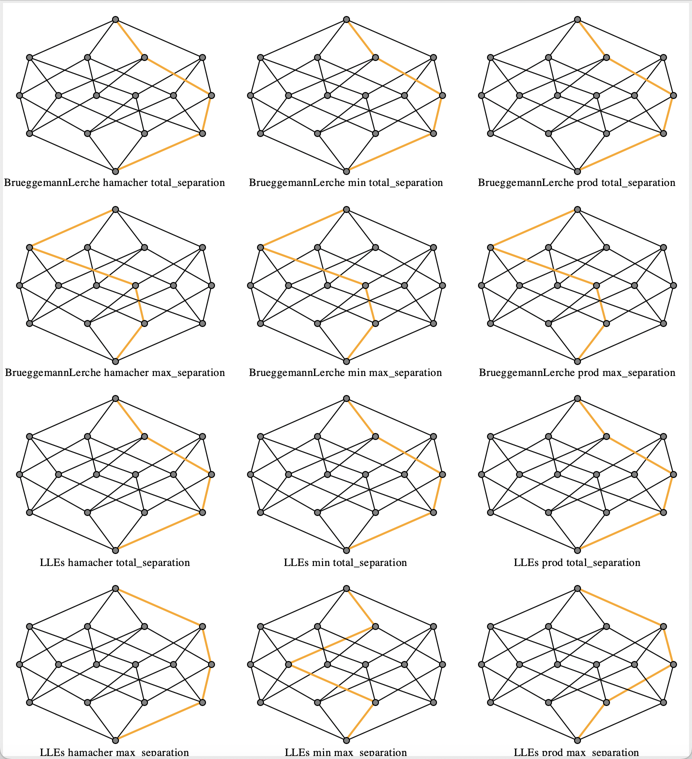
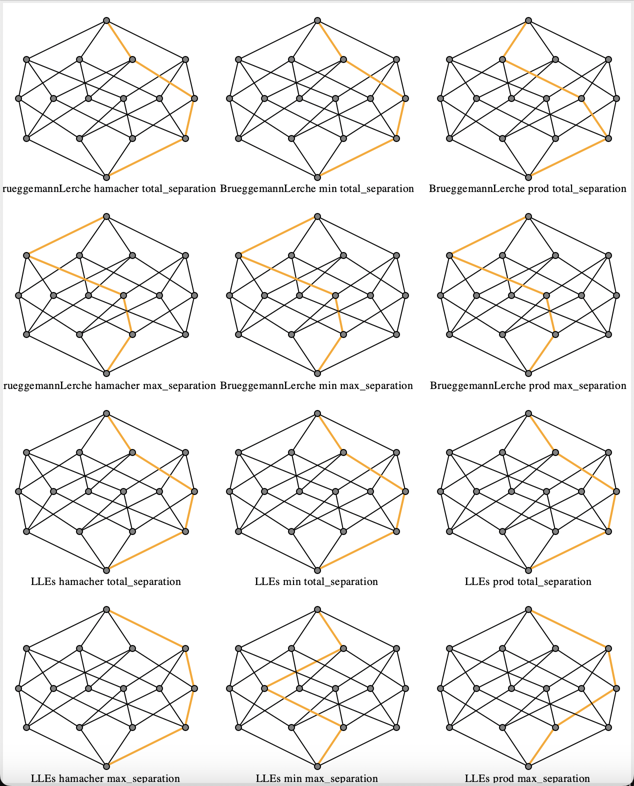
Aggiunta funzione per calcolare il dataset quoziente di una congruenza

diff --git a/example_hasse.py b/example_hasse.py
@@ -1,126 +1,57 @@
 import pyLattice.pyLattice as pl
-from random import randint
+from random import randint,seed
 from time import time
-c = [
-    [0,0,0,0],
-    [1,0,0,0], 
-    [1,0,0,0],
-    [0,0,1,0]
-]
-P = pl.PoSet.from_cover_matrix(c)
+import copy
+seed(6)
+cw = (3,3)
+df = pl.CWDataSet(cw,[randint(0,10) for i in range(pl.product(cw))])
+print(df.L)
+print(df.f)
 
-P = P * P
-L = P.dedekind_completetion()
-L = L + pl.Lattice([[1]]) + L
-L = pl.Lattice.from_cw(3,2,2)
-L.hasse()
-colors = ['yellow' if (i in L.index_join_irriducibili() and i in L.index_meet_irriducibili()) else "black" if i in L.index_join_irriducibili() else "white" if i in L.index_meet_irriducibili() else "grey" for i in range(len(L))]
-H = pl.Hasse(*L.hasse_coordinate(),nodes_color = colors, radius = 5)
-C = L.CongruenceLattice()
-colors_b = ['yellow' if (i in C.index_join_irriducibili() and i in C.index_meet_irriducibili()) else "black" if i in C.index_join_irriducibili() else "white" if i in C.index_meet_irriducibili() else "grey" for i in range(len(C))]
-
-F = pl.DinamicCongruences(H, pl.Hasse(*C.hasse_coordinate(),nodes_color = colors_b, radius = 5), congruence_lattice=C, shape = (1500,800), show_labels=True)
-# H.nodes_color = ['yellow' if i in L.index_upset(5) else 'red' if i in L.index_downset(5) else 'grey' for i in range(len(L))]
-L = pl.Lattice.from_cw(3,3)
-H = pl.Hasse(*L.hasse_coordinate(),nodes_color = colors, radius = 5)
-for j in range(min(len(L),5)):
-    H.nodes_color = ['blue' if  (i in L.index_downset(j) and i in L.index_join_irriducibili()) else 'red' if i == j else 'grey' for i in range(len(L))]
-    F = pl.Finestra(H)
+df.L.labels = df.f
+df.L.hasse(show_labels=True)
     
-D = pl.DataSet(L,[1 for i in L])
-print(D.gerarchic_cluster()[0])
-## è perfetto, ho tutte le potenzialità, dovrò solo trovare un'interfacia dinamica carina
-def get_color(vertex, con):
-    return ['red' if con[a] == con[b] else 'black' for a,b in vertex]
+partitions, sep = df.gerarchic_cluster()
 
-for i in range(len(hasses)):
-    c = Reticoli[i].calcola_congruenza(randint(0,len(Reticoli[i]) - 1), randint(0,len(Reticoli[i]) - 1))
-    hasses[i].show_congruence(c)
-    # hasses[i+1].nodes_color = ['black' if j in Reticoli[i+1].index_join_irriducibili() else 
-    #                            'white' if j in Reticoli[i+1].index_meet_irriducibili() else
-    #                            'grey'  for j in range(len(hasses[i+1].nodes))]
-
-if False:
-    pl.Finestra(*hasses, shape = (1200,800), grid = (3,3), show_labels=False)
-
-
-    A = pl.Lattice.from_cw(2,3,2)
-    pl.Finestra(pl.Hasse(*A.hasse_coordinate()),
-               pl.Hasse(*A.CongruenceLattice().hasse_coordinate()),
-               shape = (700,700), show_labels=True)
+print('\nClusters a')
+for c in partitions:
+    print(len(pl.DataSet.as_partition(c)))
+    for cluster in pl.DataSet.as_partition(c):
+        print('\t',[df.L[i] for i in cluster])
+    print()
+    
+# df.estetic_rappresentation(partitions)
 
 
 
-###### LETS GO
+"""
+Verifichiamo uno dei più grandi dubbi attuali, ovvero che se prendo a metà della cluster il 
+reticolo quoziente di una congruenza scelta e ricomincio da capo ottengo lo stesso risultato, questo non è affato scontato
+"""
+df_2 = df.get_dataset(clusters=partitions[1])
 
-from random import randint   
+partitions, sep = df_2.gerarchic_cluster()
 
-
-
-L = pl.Lattice.from_cw(4,2,2)
-freq = [randint(0,10) for i in range(len(L))]
-L.labels = [f'{f}' for l,f in zip(L,freq)]
-
-
-cover = [
-    [0, 0, 0, 0],
-    [1, 0, 1, 0],
-    [1, 0, 1, 0],
-    [0, 0, 0, 0]
-]
-L = pl.Lattice.from_cw(2,10) 
-freq = [1 for i in range(len(L))]
-L.labels = [str(f) for f in freq]
-D = pl.DataSet(L,freq)
-start = time()
-D.fuzzy_dom()
-D.fuzzy_sep()
-clusters, separations = D.gerarchic_cluster()
-print(f'Tempo gerarchico: {time()-start}')
-#pene
-C = L.CongruenceLattice()
-A = pl.DinamicCongruences(pl.Hasse(*L.hasse_coordinate()), pl.Hasse(*C.hasse_coordinate()),congruence_lattice=C,shape =(1200,800) )
+print('\nClusters b')
+for c in partitions:
+    print(len(pl.DataSet.as_partition(c)))
+    for cluster in pl.DataSet.as_partition(c):
+        print('\t',[df_2.L[i] for i in cluster])
+    print()
 
 
-# print('dom')
-# for a in D.L.domination_matrix:
-#     print('\t'.join([f"{round(i, 2):.2f}" for i in a])) # DIO FUNZIONA C'È da capire perchè D.sep[i][i] != 0
-# print()
-# print('fuz_dom')
-# for a in D.fuz_dom:
-#     print('\t'.join([f"{round(i, 2):.2f}" for i in a])) # DIO FUNZIONA C'È da capire perchè D.sep[i][i] != 0
-# print()
-# print('fuz_sep')
-# for a in D.sep:
-#     print('\t'.join([f"{round(i, 2):.2f}" for i in a])) # DIO FUNZIONA C'È da capire perchè D.sep[i][i] != 0
-# Quello che è certo è che se separation_{ij} = 1 +sum... allora separation_{ii} >= 1.
-# c'è qualcosa che non va sicuro. . . 
+df.estetic_rappresentation()
+df_2.estetic_rappresentation()
 
 
 
-start = time()
-ConL = D.L.CongruenceLattice()
-ConL.labels = [str(round(D.calcola_sep_cluster(con),2)) for con in ConL]
 
-indici = [ConL.obj.index(c) for c in clusters]
-vertexes = [(min(indici[i], indici[i+1]) ,max(indici[i], indici[i+1]))for i in range(len(clusters)-1)]
+for b in df.fuz_dom:
+    print(b)
 
-H1 = pl.Hasse(*D.L.hasse_coordinate(), radius = 3)
-H2 = pl.Hasse(*ConL.hasse_coordinate(), radius = 3)
-
-H2.vertex_color = ['orange' if a in vertexes else 'black' for a in H2.vertex]
-print(f'Tempo complessivo: {time()-start}')
-pl.Finestra(H1,H2, shape = (1400,800), show_labels = True, font_size = 15)
-
-nblocchi = [pl.numero_blocchi(con) for con in clusters]
-
-
-print(nblocchi,separations, sep = '\n\n')
-
-hasses = []
-for c in clusters:
-    hasses.append(pl.Hasse(*D.L.hasse_coordinate(), radius = 3))
-    hasses[-1].show_congruence(c)
-pl.Finestra(*hasses, show_labels=False,shape = (1400,800))
-#pl.Lattice.hasse(D.L,ConL)
-
+    
+print()
+print(*df_2.L.obj,sep = '\n')
+for b in df_2.sep:
+    print([round(_,2) for _ in b])
+    

diff --git a/pyLattice/pyLattice.py b/pyLattice/pyLattice.py
@@ -1648,6 +1648,7 @@ class Finestra():
         
         takescreenshot = ImageGrab.grab(bbox=(x, y,x+ width,y+height))
         takescreenshot.save(f"PythonStuff/pyLattice/img/{self.title}.png")
+
 # DataSet annd cluster class
 class DataSet():
     def __init__(self, Lat:Lattice, freq, fuzzy_domination_function = 'BrueggemannLerche', t_norm_function = 'prod', t_conorm_function = None):
@@ -1881,7 +1882,7 @@ class DataSet():
             
         return history_con,separations
         
-    def estetic_rappresentation(self,gerarchic_cluster = None, function_sep = "total_separation"):
+    def estetic_rappresentation(self,gerarchic_cluster = None, function_sep = "total_separation", labels_freq = True):
         if function_sep != "total_separation":
             raise ValueError("Non l'ho ancora implementato coglione")
         
@@ -1894,10 +1895,49 @@ class DataSet():
             Con_L.labels = [round(self.total_separation(DataSet.as_partition(con)),2) for con in Con_L]
 
         self.L.get_hasse_variables()
-        self.L.labels = [str(_f) for _f in self.f]
+        if labels_freq:
+            self.L.labels = [str(_f) for _f in self.f]
         self.L.dinamic_congruences(ConL = Con_L,init = False, shape = (1400,700), show_labels=True)
         
-        
+    def get_dataset(self,clusters,fuzzy_domination_function = "BrueggemannLerche", t_norm_function = "prod", t_conorm_function = None):
+        """
+        Questa funzione permette di ottenere un nuovo dataset come quoziente di una congruenza. 
+        Data una partizione ottengo il reticolo quoziente e le frequenze raggruppate
+        La logica algebrica per fare questo calcolo è semplicissima 
+        (si tratta di sommare delle sotto matrici nella matrice booleana con l'operatore "or" il risultato è la nuova matrice booleana)
+        Ma in pratica risulta complesso, devo studiare melgio la manipolazione delle matrici con numpy
+        Attualmente implementiamo una cosa molto poco efficiente, poi magari miglioreremo
+        """
+        partizione = DataSet.as_partition(clusters)
+        matrice_dominanza = [[0 if i!=j else 1 for i in range(len(partizione))] for j in range(len(partizione))]
+        for i,a in enumerate(partizione):
+            for j,b in enumerate(partizione):
+                if i < j:
+                    continue
+                next = False
+                for x in a:
+                    for y in b:
+                        if self.L.domination_matrix[x][y]:
+                            matrice_dominanza[i][j] = 1
+                            next = True
+                        elif self.L.domination_matrix[y][x]:
+                            matrice_dominanza[j][i] = 1
+                            next = True
+                    if next:
+                        continue
+                if next:
+                    continue
+                
+        freq_ = [0 for i in range(len(partizione))]
+        for i,clu in enumerate(partizione):
+            for e in clu:
+                freq_[i]+=self.f[e]
+                
+
+        return DataSet(Lattice(matrice_dominanza, X = [[self.L[i] for i in cluster] for cluster in partizione]),
+                       freq_,fuzzy_domination_function=fuzzy_domination_function,
+                       t_norm_function=t_norm_function,t_conorm_function=t_conorm_function)
+                            
 def index_wrapper(self,*lista, from_index = False, to_index = False, func):
     if from_index and to_index:
         return self.func(*lista)
@@ -2040,7 +2080,7 @@ SFIDE FUTURE
  5. [ ] Migliorare l'aspetto grafico:
     Non devo avere funzioni complesse ed illegibili, dovrei poter fare questa cosa
     - [ ] Una cazzo di griglia costumizzabile dai... L'equivalente di subplots in matplot lib per multigrafici
-    - [ ] Funzioni per evidenziare un insieme di punti o edge:
+    - [x_] Funzioni per evidenziare un insieme di punti o edge:
         Non devo avere la funzione apposta per evidenziare una congruenze, semplicemente devo calcolare 
         gli edge che la riguardano e passarli ad una funzione del tipo _evidenzia_edges(edges, color =(255,0,0), weight = 3_ 
         
@@ -2051,7 +2091,7 @@ SFIDE FUTURE
     - [ ]Studiare un cazzo di algoritmo (mi suiciderò prima di farlo) che ottimizzi la grafica di un poset
         Riordinare i punti in maniera tale di avere meno sovrapposizioni possibili e edges più corti possibili
         
-    - Upgradare l'algoritmo. So che c'è una mappa per gli elementi join-irriducibili in L to gli elementi join irriducibibli in ConL
+    - [X] Upgradare l'algoritmo. So che c'è una mappa per gli elementi join-irriducibili in L to gli elementi join irriducibibli in ConL
         Devo eseguire i seguenti due step ma dopo credo (cioè è ovvio) sia più conveniente passare a questo metodo:
         - Accertarmi che la mia tecnica per trovare gli elementi join irriducibili sia corretta
         - Identificare gli step per ottenere ConL dai suoi elementi join irriducibili.

diff --git a/example.py b/example.py
@@ -85,8 +85,8 @@ if mostra_grafici:
 #Hasse diagram
 if mostra_grafici:
     P.hasse(shape = (200,200), show_labels = True, font_size=12)
-    pl.PoSet.hasse(Q,Q,H)
-    pl.PoSet.hasse(Q,Q,H, grid = (1,3))
+    pl.PoSet.hasse(Q,Q,H, shape = (450, 150))
+    pl.PoSet.hasse(Q,Q,H, grid = (1,3),shape = (450, 150))
 
 
 # Lattice
@@ -101,7 +101,7 @@ C_2 = pl.Lattice.from_chain(2)
 C_3 = pl.Lattice.from_chain(3)
 CW = C_2 * C_3
 if mostra_grafici:
-    C_2.hasse(C_3,CW)
+    C_2.hasse(C_3,CW,shape = (450, 150))
     CW.hasse(pl.Lattice.from_cw(2,3),shape = (400,200),  show_labels = True, font_size=12)
 
 #Chek if a poset is a lattice
@@ -129,6 +129,18 @@ if mostra_grafici:
 
 
 ### Congruencens
+
+#### All congruences on 3 pwst
+L = pl.Lattice.from_power_set(3)
+congs = L.all_congruenze()
+alls = [pl.Lattice.from_power_set(3) for c in congs]
+for a,c in zip(alls,congs):
+    a.get_hasse_variables()
+    a.show_congruence(c)
+
+if mostra_grafici:  
+    pl.Lattice.hasse(*alls,init = False, shape = (400,800), grid = (4,2))
+
 L = pl.Lattice.from_cw(2,3,4)
 
 print(L.calcola_congruenza(10,15)) # [0, 1, 2, 2, 0, 1, 2, 2, 0, 1, 2, 2, 0, 1, 2, 2, 0, 1, 2, 2, 0, 1, 2, 2]
@@ -136,8 +148,13 @@ if mostra_grafici:
     L.hasse(L.CongruenceLattice(),shape = (500,250))
 
 if mostra_grafici:
-    L.dinamic_congruences()
+    L.dinamic_congruences(shape=(1400,700))
+    
 
+## Temp
+L = pl.Lattice.from_power_set(2)
+L = L + L + L
+L.dinamic_congruences(shape=(1400,700))
 
 ### DataSet
 cw = (2,3,3)
@@ -191,5 +208,5 @@ for fuzzy_d in ('BrueggemannLerche', 'LLEs'):
             hasses[-1].labels[-1] = f"{fuzzy_d} {t_n} {agg_function}"
             
 if mostra_grafici:       
-    pl.Lattice.hasse(*hasses[1:],show_labels=True, shape = (1800,900), 
-                 grid = (2,6), title = 'All', init = False)
+    pl.Lattice.hasse(*hasses[1:],show_labels=True, shape = (1200,900), 
+                 grid = (4,3), title = 'All', init = False)
